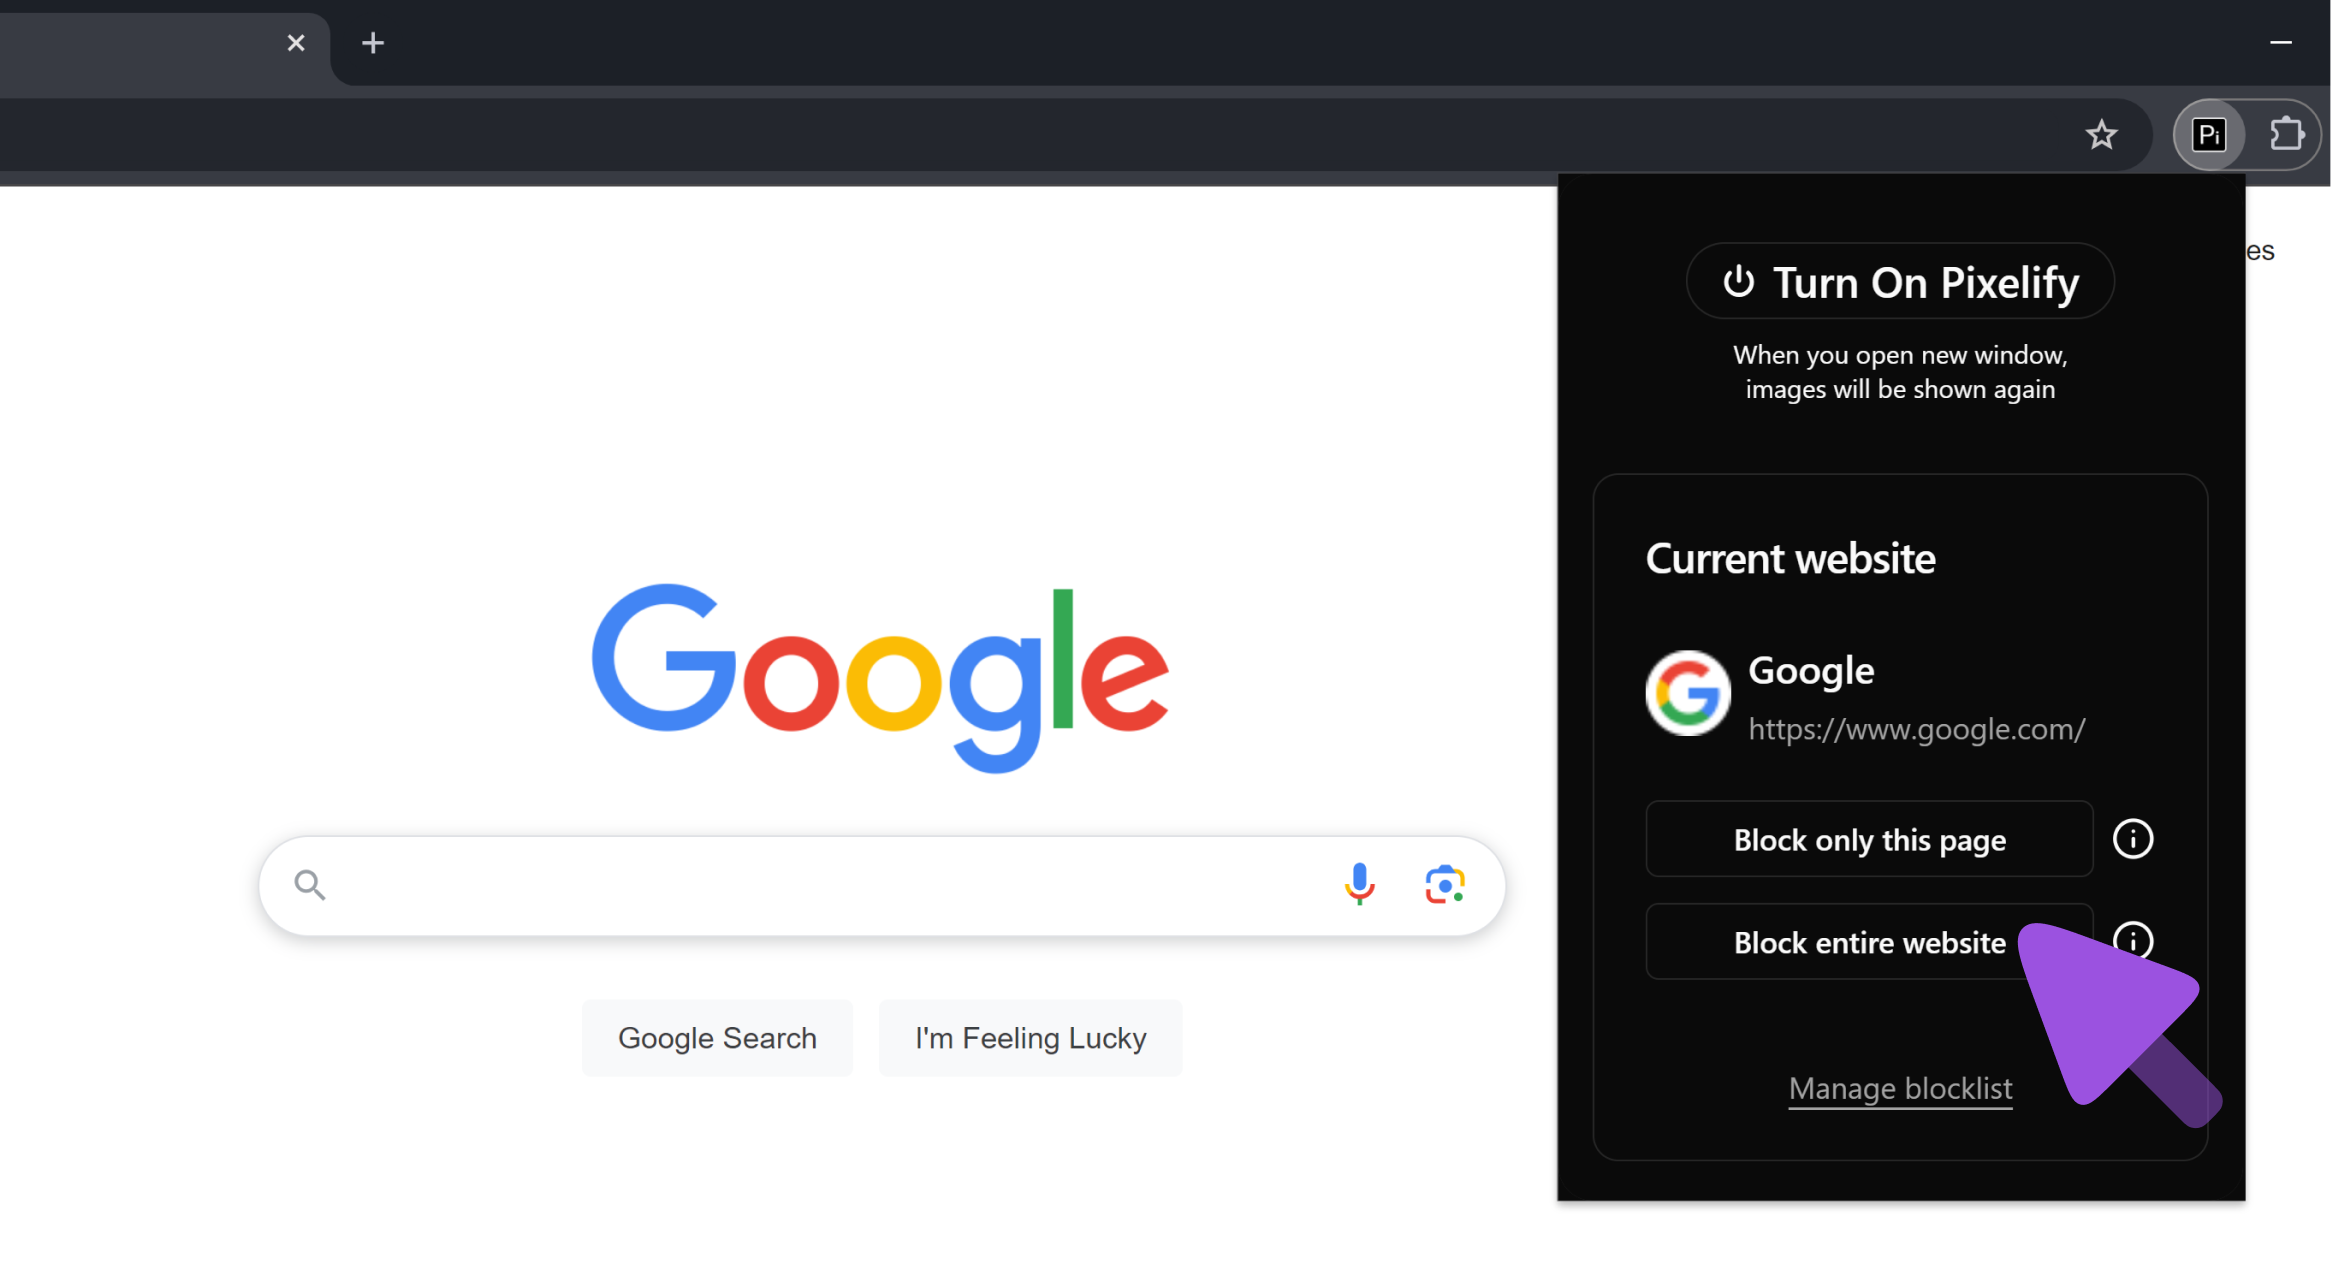
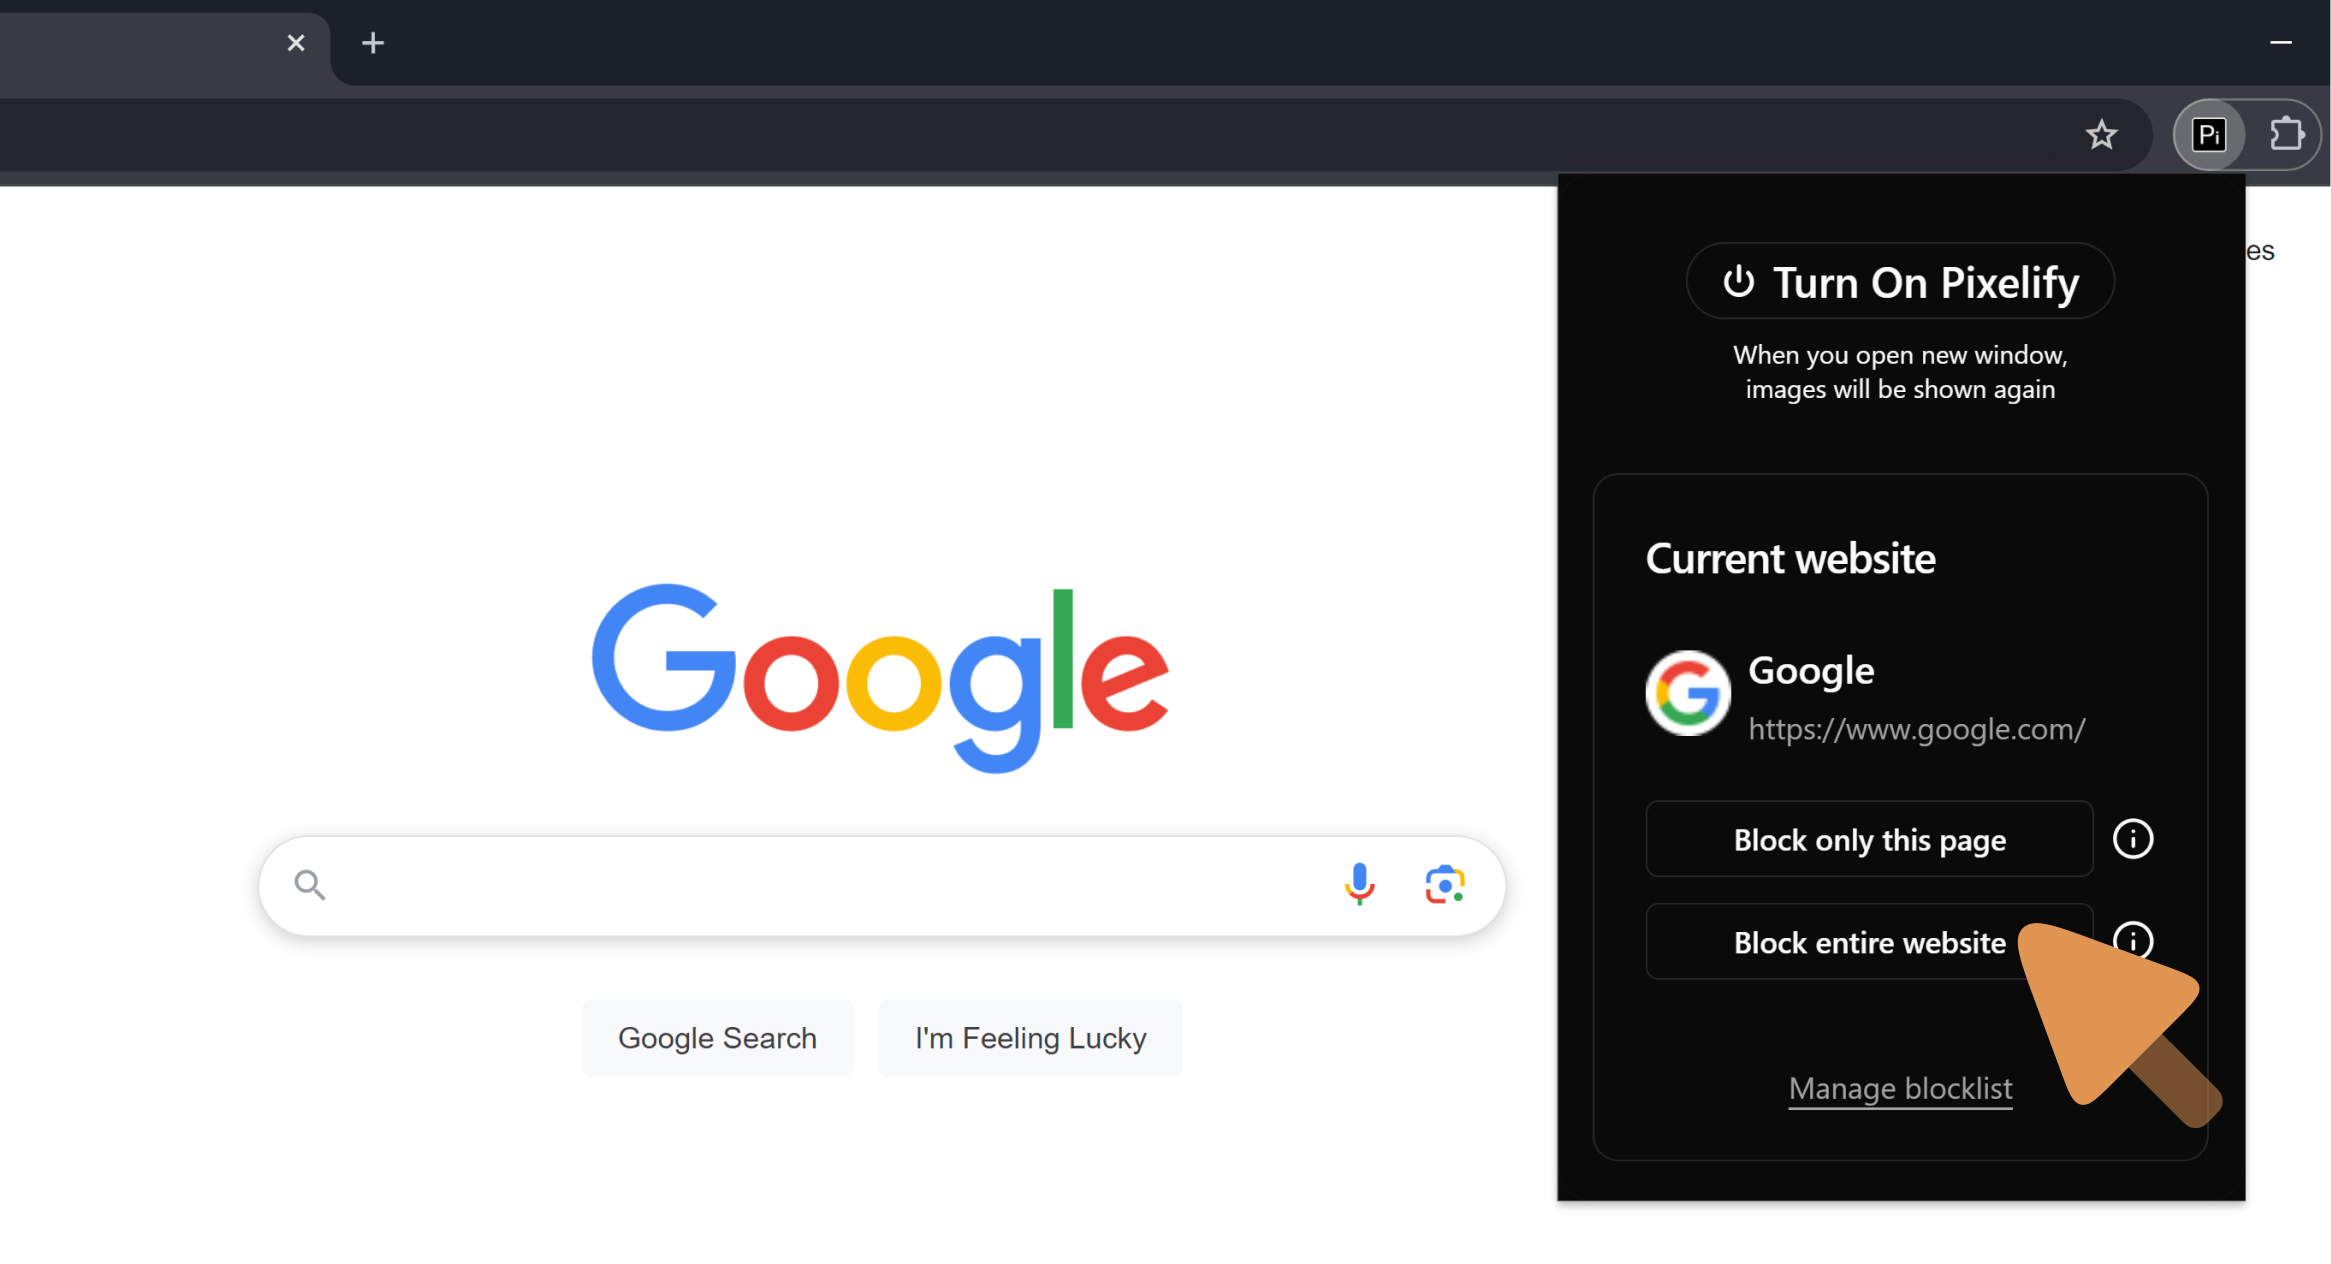
range mode update

Changed region(s): [[0.8649, 0.7097, 0.9575, 0.8948]]

diff --git a/pixelify-landing/src/styles/globals.css b/pixelify-landing/src/styles/globals.css
@@ -3,9 +3,9 @@
 @tailwind utilities;
 @layer base {
   :root {
-    --purple: 271 70% 70%;
-    --purple-foreground: 271 70% 50%;
-    --purple-alternative: 271 70% 80%;
+    --purple: 28 70% 70%;
+    --purple-foreground: 28 70% 50%;
+    --purple-alternative: 28 70% 80%;
     --background: 0 0% 100%;
     --foreground: 0 0% 3.9%;
     --card: 0 0% 100%;
@@ -33,9 +33,9 @@
     --radius: 0.5rem
   }
   .dark {
-    --purple: 271 70% 55%;
-    --purple-foreground: 271 70% 70%;
-    --purple-alternative: 271 70% 45%;
+    --purple: 28 70% 55%;
+    --purple-foreground: 28 70% 70%;
+    --purple-alternative: 28 70% 45%;
     --background: 0 0% 3.9%;
     --foreground: 0 0% 98%;
     --card: 0 0% 3.9%;
